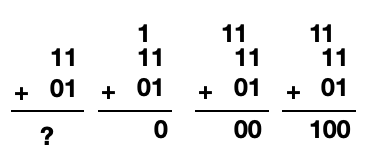
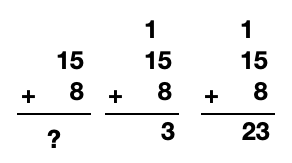
adding a section on logic gates and adders

diff --git a/computers_math.html b/computers_math.html
@@ -1,0 +1,175 @@
+<html>
+<link rel="stylesheet" href="style.css">
+<title>Halting Solution</title>
+
+
+<h1 class="title"><a href="index.html" style="color: black; text-decoration: none; ">Halting Solution</a></h1>
+
+
+<div class="container">
+
+    <div class="content mono">
+
+
+        <h2>How can computers do math?</h2>
+        Computers aren't thinking machines - there is no magic in the binary, they're just dense piles of simple
+        electronic components. In this section we'll look at how computers perform simple math equations as a way to
+        explore this concept.
+        <br><br>
+
+
+        <h3>Logic Gates</h3>
+        Inside of a computer's CPU, there is a special component called an Arithmatic Logic Unit (ALU). The ALU's job is
+        to take a series of electrical signals through some wires, and then produce a corresponding output on other
+        wires. The input electricity represents binary numbers and the math operation to be performed, and the output is
+        the result of that operation. Rather than being monolithic, ALU's are composed of smaller electronic units wired
+        together, each expertly performing a specific operation. One such building block is known as a logic
+        gate.<br><br>
+
+
+
+
+
+        Logic gates take several wires (holding a high or low signal to represent a 0 or 1), and produce a simple output
+        based on the input. Let's look at three common ones:
+        <ul>
+            <li><b>AND</b> gates will only produce a high power reading if both inputs are also high (both one AND The
+                other, hence the name.) </li>
+
+            <li>An <b>OR</b> gate will take two wires, and if either one OR the other has a high power it will produce a
+                high on the output.</li>
+            <li>Finally, a <b>XOR</b> gate will be high if (and only if) ONLY one of the input wires is high.</li>
+        </ul>
+        <div class="essayPictureDouble" style="width:100%">
+            <img src="img/AND_block.png" class="essayPictureTriple"
+                alt="an image of an ADD block, showing two inputs and an output, and listing the logic of the block already described above.">
+            <img src="img/OR_block.png" class="essayPictureTriple"
+            alt="an image of an OR block, showing two inputs and an output, and listing the logic of the block already described above.">
+            <img src="img/XOR_block.png" class="essayPictureTriple"
+            alt="an image of a XOR block, showing two inputs and an output, and listing the logic of the block already described above.">
+        </div>
+
+        <br><br> The wiring behind these blocks is dead simple - just a matter of some thought and attention. For
+        example, we can create an AND gate using two switches and a battery. When both inputs to the gate are high, both
+        electronically triggered switches close, and the power is able to flow from the battery through to the output.
+        <div class="essayPictureContainerRight">
+            <img src="img/and_gate.png" style="width:100%"
+                alt="Another image of an and gate, this one showing two switches inside which connect or disconnect a power source from the output, and those switches are connected to the inputs.">
+            </div>
+
+        <br><br>This is all well and good, but what does this have to do with math? To answer that, we'll need to use
+        these gates as building blocks for something slightly more complicated. We also need to remember how binary
+        numbers differ from our every-day base 10 decimal numbers:<br><br>
+        <div style="padding-left:5%">
+            <b><u>Decimal (Deca means 10)</u><br>
+                Base 10 counting<br>
+                digits span from 0 - 9<br>
+                0 1 2 3 4 5 6 7 8 9 <br>
+                10 11 12 13 14 15 16 17 18 19 </b>
+            <br><br>
+
+            <b><u>Binary (Bi means 2) </u><br>
+                Base 2 counting<br>
+                digits span from 0 - 1 (each number is often called a 'bit'<br>
+                0 1 <br>
+                10 11 </b><br><br>
+        </div>
+
+
+        <br><br>
+        As we can see, any of our every day numbers can be represented in binary using 0's and 1's. The strategy here is
+        that we will strip off those numbers one by one and pass them through a series of carefully chosen logic gates.
+        This strategy is just like what we learned in our childhood math classes - look at the numbers one by one, and
+        then merge the results all together at the end.
+        <div class="essayPictureContainerDouble">
+
+            <div class="essayPictureDouble">
+                <div style="bottom:0%">
+                    <img src="img/decimal_math.png"
+                        alt="An image of 15 and 8 being added together, remainders being put on top of the equation."
+                        style="width:100%">
+                    <div style="text-align:center;bottom:0%;">
+                        <i>In our math problems, we perform the operation (in this case adding) on the numbers one by
+                            one, and carry the result to the next place on top as needed.</i>
+                    </div>
+                </div>
+            </div>
+            <div class="essayPictureDouble">
+                <img src="img/binary_math.png" style="width:100%"
+                    alt="An image of 11 and 01 being added together, remainders being put on top of the equation.">
+                <div style="text-align:center">
+                    <i>In binary it's exactly the same. We perform the operation, and carry the remainder. It's just a
+                        bit more boring, because we are using only zeroes and ones.</i>
+                </div>
+            </div>
+
+        </div>
+        <br><br>
+        <h3>Building an Adder</h3>
+
+        Let's start putting together one of these specialized components in the ALU. Addition is the simplest, so it's a good place for us to start. First, we need to make something called a "half adder". Like the name suggestes, a half-adder is half of what we need to make an adding machine out of logic gates. 
+
+        <br><br><i>Remember: we will look at each digit - a 0 or 1 - in our binary numbers one by one. We will be broadcasting high power on a wire to represent 1's, and low power to represent 0's.</i>
+        <br><br> To make our half adder, we need 4 parts:
+        <ul>
+            <li>A wire representing the first digit in the <b>first</b> number to be added. Labeled here as Number A.</li>
+            <li>A wire representing the first digit in the <b>second</b> number to be added. Labeled here as Number B.</li>
+            <li>a XOR gate</li>
+            <li>an AND gate</li>
+        </ul>
+        <div class="essayPictureContainerDouble">
+            <img src="img/half_adder.png" 
+                alt="an image of a half adder, where a XOR and AND block are wired together.">
+        </div>
+        <br><br>
+        <div class="essayPictureContainerleft">
+            <img src="img/xor_and_math.png" style="width:100%"
+                alt="A repeat of the image showing binary addition, with the remainder circled with the note 'and does this', and the result circled with the note 'XOR does this'.">
+        </div>
+The XOR gate handles the situation where we are performing 1+0, or 0+1 - it will return 1 if that's the case. If both are 0, or 1, it will output 0. Meanwhile The AND gate figures out if we are adding two of the same number, so 0+0 or 1+1 - It will output 1 if that's the case.<br><br>
+        If we look back up to our example of hand-calculating addition. We can see that the XOR will give us a 1 or a 0 to put at the bottom of the equation, and the AND figures out if we need to put a 1 on top of the equation as a remainder (also known as a carry). 
+        <br><br>
+        That may solve adding one set of digits, but how do we add more? Remember, computers are just stacks of simple electronic components - so lets start with our half-adder and build it up.
+        <br><br>
+        Our half-adder doesn't have an input wire for the remainder/carry on top of the equation, so let's start by adding that, (we'll do something with it later down the pipeline.)
+        <br><br>
+        <div class="essayPictureContainerDouble">
+            <img src="img/half_adder_with_carry.png"
+                alt="A half adder, now with a line saying 'carry' passing through as an unused input">
+        </div> 
+        Next, we will stick another half adder on top. This will add the remainder to the sum of the two numbers we handled with the first half-adder.
+        <div class="essayPictureContainerDouble">
+            <img src="img/two_half_adders.png"
+                alt="two half adders linked together, with the carry from before being wired into the second half adder.">
+        </div> 
+        Finally, we add an OR at the end to generate the proper carry operation - it will generate a 1 if there was a remainder from adding our previous carry, or if there was a remainder from our two new numbers being added together.
+
+        <br><br>
+        <div class="essayPictureContainerDouble">
+            <img src="img/full_adder.png" style="width:100%"
+                alt="an image of a full adder">
+        </div>
+        <br><br>Now we have our full-adder! It can add two numbers and include a remainder from a previous calculation... How is that helpful? Once again, we just need to continue piling things on. If we link a half adder with some full adders, we can finally start adding real multi-digit numbers!
+        <div class="essayPictureContainerDouble">
+            <img src="img/linked_adders.png" style="width:100%"
+                alt="An image of a half adder connected to two full adders, showing the addition of 010 and 111. The result is displayed at the bottom. At the end of the chain is a carry of 1, and a warning sign indicating caution.">
+        </div>  
+        <br><br>As we can see, we need an adder for each digit in our number. But notice! We have a warning at the end of our chain - we carried out a digit and didn't add it to the end of our number. What's that about?<br><br>
+        In all computers, numbers have a maximum size. For older computers this is 32 (and even older or simpler computers were smaller - gameboys for example were only 8!) and newer computers this is 64. This is why you see terms like 32bit or x64 on computers (or 8-bit mentioned for retro-looking art), it's referring to the maximum size of numbers. (This is also why newer programs can't run on older computers - among a few other things, there just aren't enough adders in their ALUs!)
+        <br><br>
+        When we run into this issue, we call it an 'integer overflow'. We had too many bits and they came spraying out of the end of our adder chain. Programmers who work with the deepest parts of computers will often check if there is a 1 in ALUs trash after a math operation, and then perform some careful work to recover their math.
+        <h3>In Conclusion</h3>
+        Computers stack circuits together to make electricity behave a certain way. When we make our electricity look like two binary numbers on one side of a stack of electronics, the other side will broadcast some electricity that looks like the result of a math operation. There's no magic, just a ridiculous amount of simple steps carefully strung together.<br><br>
+        The rest of the computer is the same. For every mysterious behavior, there is another sky-high pile of electronics. This is why computers drive towards smaller and smaller chips - as our piles grow bigger it takes longer for the electricity to pass all the way through them. By making the stack smaller we can reduce the time, and therefore make our computers run faster.<br><br>
+        When computers were simpler, people were familiar with the entire stack - all the way down to the wires. However as these strings of electronics have grown longer and longer, engineers have specialized and focused on just one part of the chain. Nowadays, people who write computer software software swim across the surface of computers hardly knowing these electronics at all. <br><br>In our next section we will explore how software became decoupled from electronics - which was the result of the advent of compilers and interpreters.
+        <br><br>
+
+        <b><a href="Computers.html" style="color: black; ">
+                <- Back to How Do Computers Work </a></b><br><br>
+    </div>
+</div>
+
+
+
+
+</html>

diff --git a/computers_intro.html b/computers_intro.html
@@ -1,86 +1,87 @@
+
 <html>
-<link rel="stylesheet" href="style.css">
-<title>Halting Solution</title>
-
-
-<h1 class="title"><a href="index.html" style="color: black; text-decoration: none; ">Halting Solution</a></h1>
-
-
-<div class="container">
-
-    <div class="content mono">
-
-
-        <h2>An Introduction</h2>
-
-
-        There is undue mystery in the operation of computers. For some reason, digital technology is seen as magical or
-        too advanced to be understood by the layperson. This is not true. Computers are glorified engines or plumbing
-        systems - they're complicated, but anyone with some attention and effort can learn its principles and
-        operations. To begin our understanding, we will begin at the heart of the machine and work our way outward.
-        <br><br>
-
-
-        <h3>CPU - the heart of a computer</h3>
-        <div class="essayPictureContainerRight" style=" margin-bottom:1%;">
-            <img src="img/CPU_example.png"
-                alt=" an example graph showing an irregular square wave, where the x axis is time and the y axis is power. Small dials showing high and low power are put on the Y axis for illustrative purposes."
-                style="width:100%;">
-            <div style="text-align:center" class="fontCorrect"><i>An example power reading from somewhere on a computer
-                    chip, showing high and low signals over time.</i>
+    <link rel="stylesheet" href="style.css">
+    <title>Halting Solution</title>
+    
+    
+    <h1 class="title"><a href="index.html" style="color: black; text-decoration: none; ">Halting Solution</a></h1>
+    
+    
+    <div class="container">
+    
+        <div class="content mono">
+    
+    
+            <h2>An Introduction</h2>
+    
+    
+            There is undue mystery in the operation of computers. For some reason, digital technology is seen as magical or
+            too advanced to be understood by the layperson. This is not true. Computers are glorified engines or plumbing
+            systems - they're complicated, but anyone with some attention and effort can learn its principles and
+            operations. To begin our understanding, we will begin at the heart of the machine and work our way outward.
+            <br><br>
+    
+    
+            <h3>CPU - the heart of a computer</h3>
+            <div class="essayPictureContainerRight" style=" margin-bottom:1%;">
+                <img src="img/CPU_example.png"
+                    alt=" an example graph showing an irregular square wave, where the x axis is time and the y axis is power. Small dials showing high and low power are put on the Y axis for illustrative purposes."
+                    style="width:100%;">
+                <div style="text-align:center" class="fontCorrect"><i>An example power reading from somewhere on a computer
+                        chip, showing high and low signals over time.</i>
+                </div>
+    
             </div>
-
+            All modern
+            computers have a central hub where all data flows, we generally call that the computer chip or CPU (which stands
+            for Central Processing Unit). Like
+            water pressure through a pipe, electricity flows through this chip - when the electricity has higher power we
+            call it a 1 (or True) and when it's low we call it 0 (or False). If you were to take an electric sensor and put
+            it somewhere on a chip, you would see the power rise up and fall down eratically as the data is passed around.
+            <br><br>
+            The chip has many places where this electricity
+            flows. There are many units in a CPU and each performs a specialized job, such as adding two numbers together or
+            collecting data from somewhere else. At each of these places, the unit spends a duration of time listening to
+            the electricity and performing its work. Because of these time-sensitive tasks, the whole system
+            must be very tightly choreographed. <br><br>
+    
+    
+            To synchronize everything, all parts of the chip listen to a clock which ticks off time at a very precise (and
+            <i>incredibly</i> fast) rate. These ticks aren't used to measure periods of time, just to set a pace - so it's
+            more like a metronome than a watch! This mentronome-clock is made by passing electricity through a quartz
+            crystal, which causes the crystal to shake at a predictable speed. Every time the crystal completes an
+            oscillation (the shake), each part of the chip knows to perform its next step and pass the electricity to the
+            next
+            unit in the system (this is done by re-broadcasting what it heard - a zero or a 1 - to the next person in the
+            cpu pipe).
+            <br><br>
+    
+            <img src="img/4004map.jpg" class="pico8Image" style="width:80%"
+                alt="an image through a powerful microscope of a computer processor, showing many eched lines and components">
+            <div style="text-align:center"><i>This is a very zoomed in picture of the inside of a <a
+                        href="https://en.wikipedia.org/wiki/Intel_4004">intel 4004</a> chip - the first computer chip on the
+                    market (thanks MIT for releasing this picture!). If you look closely, you can see all the little paths
+                    the electricity must take, and the units where that electricity is processed.</i></div><br><br>
+            So now we have a few basic ideas:
+            <ul>
+                <li>Computers have a core called a CPU where all processing occurs</li>
+                <li>CPUs operate with electricty passing along special routes</li>
+                <li>These routes connect different electronic parts which do different jobs</li>
+                <li>When the electricity is high, the computer considers it a 1</li>
+                <li>When the electricity is low, the computer considers it a 0</li>
+                <li>the whole system is synchronized with a highly accurate clock</li>
+            </ul>
+    
+    
+            <br><br>
+    
+    
+            <b><a href="Computers.html" style="color: black; ">
+                    <- Back to How Do Computers Work </a></b><br><br>
         </div>
-        All modern
-        computers have a central hub where all data flows, we generally call that the computer chip or CPU (which stands
-        for Central Processing Unit). Like
-        water pressure through a pipe, electricity flows through this chip - when the electricity has higher power we
-        call it a 1 (or True) and when it's low we call it 0 (or False). If you were to take an electric sensor and put
-        it somewhere on a chip, you would see the power rise up and fall down eratically as the data is passed around.
-        <br><br>
-        The chip has many places where this electricity
-        flows. There are many units in a CPU and each performs a specialized job, such as adding two numbers together or
-        collecting data from somewhere else. At each of these places, the unit spends a duration of time listening to
-        the electricity and performing its work. Because of these time-sensitive tasks, the whole system
-        must be very tightly choreographed. <br><br>
-
-
-        To synchronize everything, all parts of the chip listen to a clock which ticks off time at a very precise (and
-        <i>incredibly</i> fast) rate. These ticks aren't used to measure periods of time, just to set a pace - so it's
-        more like a metronome than a watch! This mentronome-clock is made by passing electricity through a quartz
-        crystal, which causes the crystal to shake at a predictable speed. Every time the crystal completes an
-        oscillation (the shake), each part of the chip knows to perform its next step and pass the electricity to the
-        next
-        unit in the system (this is done by re-broadcasting what it heard - a zero or a 1 - to the next person in the
-        cpu pipe).
-        <br><br>
-
-        <img src="img/4004map.jpg" class="pico8Image" style="width:80%"
-            alt="an image through a powerful microscope of a computer processor, showing many eched lines and components">
-        <div style="text-align:center"><i>This is a very zoomed in picture of the inside of a <a
-                    href="https://en.wikipedia.org/wiki/Intel_4004">intel 4004</a> chip - the first computer chip on the
-                market (thanks MIT for releasing this picture!). If you look closely, you can see all the little paths
-                the electricity must take, and the units where that electricity is processed.</i></div><br><br>
-        So now we have a few basic ideas:
-        <ul>
-            <li>Computers have a core called a CPU where all processing occurs</li>
-            <li>CPUs operate with electricty passing along special routes</li>
-            <li>These routes connect different electronic parts which do different jobs</li>
-            <li>When the electricity is high, the computer considers it a 1</li>
-            <li>When the electricity is low, the computer considers it a 0</li>
-            <li>the whole system is synchronized with a highly accurate clock</li>
-        </ul>
-
-
-        <br><br>
-
-
-        <b><a href="Computers.html" style="color: black; ">
-                <- Back to How Do Computers Work </a></b><br><br>
     </div>
-</div>
-
-
-
-
-</html>
+    
+    
+    
+    
+    </html>

diff --git a/Computers.html b/Computers.html
@@ -22,6 +22,7 @@
             </ul>          
             <h3>Systems, Electronics, and Low Level Programming</h3>
             <ul>
+                <li><a href="computers_math.html">How Computers do Math</a></li>
                 <li><a href="gameboytutorial_sprite_encoding.html">How 0's and 1's make pictures</a>(crosspost from my <a href="gameboytutorial.html">gameboy programming tutorial</a>)</li> 
                 <li>What are computer languages and how are they different?(TBD)</li> 
             </ul>          

diff --git a/style.css b/style.css
@@ -196,6 +196,12 @@ canvas{
 .essayPictureDouble{
 	width:50%;
 }	
+.essayPictureTriple{
+	width:30%;
+}	
+
+
+
 .essayPictureContainerLeft{
 	float:left;
 	width:30%;
@@ -260,6 +266,9 @@ and (max-device-width: 51em) {
 		-webkit-text-size-adjust: 100%;
 	}
 	.essayPictureDouble{
+		width:100%;
+	}	
+	.essayPictureTriple{
 		width:100%;
 	}	
 	.title
